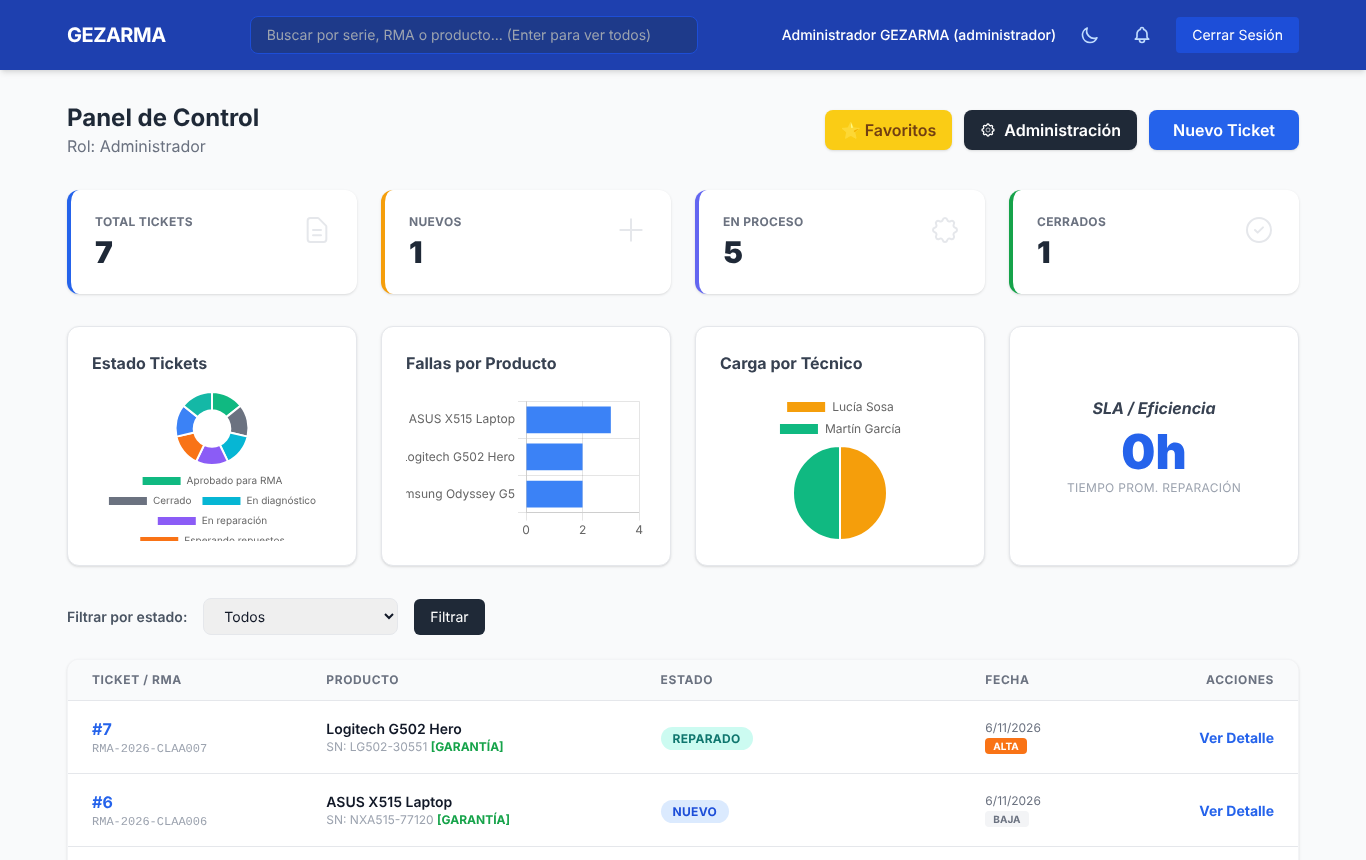
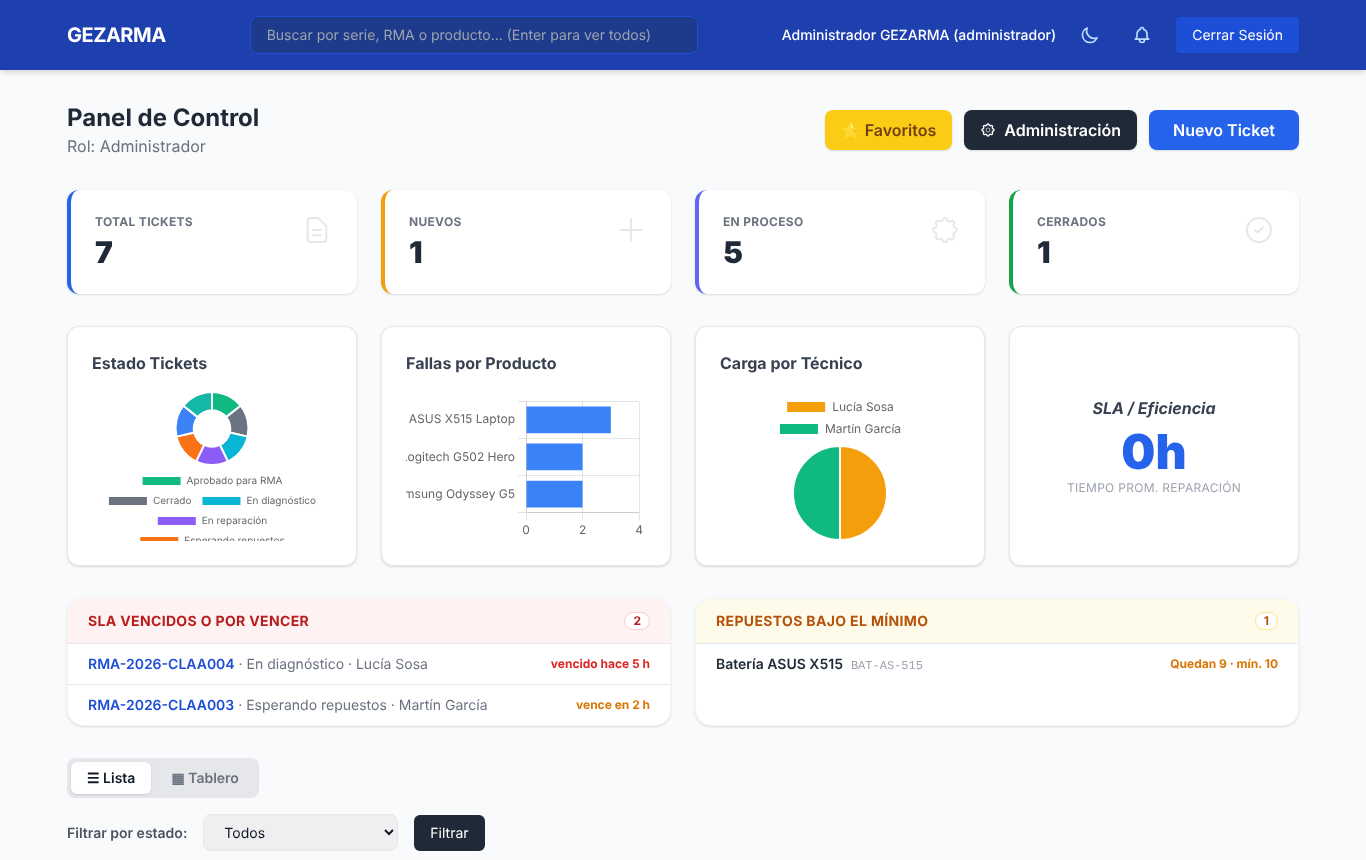
docs: README con las funcionalidades nuevas y capturas
- Funcionalidades, permisos (documentos, etiqueta, tablero, alertas,
  ajustes) y aclaración sobre el seguimiento público.
- Configuración: PUBLIC_URL, SMTP_*, TAREAS_PERIODICAS; sección de Ajustes
  del panel (con ejemplo de Gmail) y de Etiquetas (imprimir a tamaño real).
- Deploy: URL pública y correr un solo proceso de la app.
- Capturas nuevas: alertas en el dashboard, tablero, seguimiento en el
  celular, presupuesto en PDF, etiqueta y ajustes (datos ficticios).

diff --git a/README.md b/README.md
@@ -11,10 +11,15 @@ Backend en **FastAPI** + SQLAlchemy (SQLite por defecto) y frontend en HTML/JS s
 - **Tickets RMA** con número correlativo, estados configurables, prioridad, SLA, técnico asignado, etiquetas, tickets clonados/relacionados y datos de envío.
 - **Diagnóstico** con plantillas, **repuestos usados** con descuento de stock y **adjuntos** (PDF, TXT, JPG, PNG; hasta 10 MB por ticket).
 - **Comentarios** con el cliente y **notas internas** solo para el taller.
-- **Presupuestos** con versiones: el taller ve costo, precio y ganancia; el cliente ve el precio y lo aprueba o rechaza.
-- **Stock de repuestos** con historial de movimientos.
+- **Presupuestos** con versiones: el taller ve costo, precio y ganancia; el cliente ve el precio y lo aprueba o rechaza. Los ítems pueden ser repuestos del catálogo: al aprobarse, se descuentan del stock y se agregan al ticket.
+- **Stock de repuestos** con historial de movimientos, **stock mínimo** y aviso a los administradores cuando un repuesto lo cruza.
+- **Seguimiento público** sin login: el cliente consulta el estado con su N° de RMA y N° de serie (o escaneando el QR de su orden de ingreso).
+- **Documentos**: orden de ingreso, remito de entrega y presupuesto en PDF, y **etiqueta 62 × 29 mm** con QR y código de barras para pegar en el equipo.
+- **Notificaciones por email**: cambios de estado y presupuestos al cliente (con el PDF adjunto), asignaciones al técnico, stock bajo y SLA al taller.
+- **Alertas de SLA**: tickets vencidos o por vencer en el dashboard y aviso automático, una sola vez por ticket.
+- **Tablero Kanban** por estado: arrastrar una tarjeta a otra columna le cambia el estado.
 - **Notificaciones** in-app, **favoritos**, búsqueda global y **historial/auditoría** de cada cambio.
-- **Panel de administración**: usuarios, productos, repuestos, etiquetas, estados, plantillas, finanzas, seguridad del login y **exportación** a CSV/Excel.
+- **Panel de administración**: usuarios, productos, repuestos, etiquetas, estados, plantillas, finanzas, seguridad del login, **ajustes** (documentos, email, SLA, seguimiento) y **exportación** a CSV/Excel.
 - Bloqueo por intentos fallidos de login y cambio de contraseña obligatorio tras un reset.
 
 ## Capturas
@@ -24,9 +29,23 @@ Backend en **FastAPI** + SQLAlchemy (SQLite por defecto) y frontend en HTML/JS s
 | ![Detalle visto por el taller](docs/capturas/03-detalle-taller.png) | ![Detalle visto por el cliente](docs/capturas/04-detalle-cliente.png) |
 | Estado, técnico, diagnóstico, repuestos, nota interna y presupuesto con costo y ganancia. | El mismo ticket para el cliente: sin nota interna y el presupuesto solo con el precio. |
 
-| Administración | Login |
+| Tablero Kanban | Seguimiento público (celular) |
 |---|---|
-| ![Panel de administración](docs/capturas/05-admin.png) | ![Login](docs/capturas/01-login.png) |
+| ![Tablero por estado](docs/capturas/06-tablero.png) | ![Seguimiento de una reparación](docs/capturas/07-seguimiento.png) |
+| Arrastrar una tarjeta a otra columna le cambia el estado. | Con el N° de RMA y el N° de serie, o escaneando el QR de la orden de ingreso. |
+
+| Presupuesto en PDF | Etiqueta 62 × 29 mm |
+|---|---|
+| ![Presupuesto en PDF](docs/capturas/08-presupuesto.png) | ![Etiqueta para el equipo](docs/capturas/09-etiqueta.png) |
+| Precios para el cliente (nunca costos) y QR al seguimiento. | QR que abre el ticket en el sistema y código de barras del N° de RMA. |
+
+| Administración | Ajustes |
+|---|---|
+| ![Panel de administración](docs/capturas/05-admin.png) | ![Ajustes del sistema](docs/capturas/10-ajustes.png) |
+
+| Login | |
+|---|---|
+| ![Login](docs/capturas/01-login.png) | |
 
 *(Datos de demostración ficticios.)*
 
@@ -45,10 +64,14 @@ Backend en **FastAPI** + SQLAlchemy (SQLite por defecto) y frontend en HTML/JS s
 | Crear, editar y enviar presupuestos | — | ✅ | ✅ |
 | Ver costo interno y ganancia | — | ✅ | ✅ |
 | Aprobar / rechazar presupuesto | los suyos | ✅ | ✅ |
-| Dashboard con estadísticas, favoritos | — | ✅ | ✅ |
+| Dashboard con estadísticas, alertas de SLA y stock, tablero Kanban, favoritos | — | ✅ | ✅ |
+| Documentos: orden de ingreso, remito, presupuesto | los suyos | ✅ | ✅ |
+| Etiqueta del equipo | — | ✅ | ✅ |
 | Exportar tickets, productos y repuestos | — | ✅ | ✅ |
 | Administrar usuarios, productos, repuestos, stock, etiquetas, estados y plantillas | — | — | ✅ |
-| Finanzas, seguridad del login, exportar usuarios | — | — | ✅ |
+| Finanzas, seguridad del login, ajustes, exportar usuarios | — | — | ✅ |
+
+El **seguimiento público** (`/seguimiento`) no requiere usuario: lo puede consultar cualquiera que tenga el N° de RMA **y** el N° de serie del equipo, y muestra solo el estado, la línea de tiempo y los datos de envío.
 
 El registro público siempre crea usuarios **cliente**. Los técnicos y administradores los crea un administrador desde *Administración → Usuarios → Nuevo usuario*.
 
@@ -103,10 +126,31 @@ Todo se configura con variables de entorno o con un archivo `.env` en la raíz (
 | `TIMEZONE` | `America/Argentina/Buenos_Aires` | Zona horaria del negocio (nombre IANA). Las fechas se guardan en UTC y cada navegador las muestra en su hora local; esta zona se usa para las exportaciones a CSV/Excel. |
 | `DATABASE_URL` | `sqlite:///./rma_system.db` | Base de datos (cualquier URL de SQLAlchemy). En Docker está fija a `/data`. |
 | `UPLOAD_DIR` | `uploads` | Carpeta de adjuntos. En Docker está fija a `/data/uploads`. |
+| `PUBLIC_URL` | (vacía) | Dirección pública del sistema, para los QR y los links de los mails (ej. `https://rma.tuempresa.com`). Vacía = la dirección con la que se accede. También se puede cargar en *Ajustes*. |
+| `SMTP_HOST`, `SMTP_PORT`, `SMTP_SECURITY`, `SMTP_USER`, `SMTP_PASSWORD`, `SMTP_FROM` | (vacías), `587`, `starttls` | Servidor de correo, si en *Ajustes* elegís tomar la configuración SMTP del `.env` (la otra opción es cargarla en el panel). |
+| `TAREAS_PERIODICAS` | `1` | Revisión automática de SLA. Poné `0` si corrés más de un proceso de la app (así no avisa dos veces). |
 | `PORT` | `8000` | Puerto publicado por Docker Compose. |
 | `FORWARDED_ALLOW_IPS` | `127.0.0.1` | IP(s) del proxy inverso en el que se confía para conocer la IP real del cliente (ver *Deploy*). |
 
 Al arrancar, la app avisa en el log si la `SECRET_KEY` o `CORS_ORIGINS` quedaron con valores inseguros.
+
+### Ajustes desde el panel
+
+En *Administración → Ajustes* se configura lo que no hace falta tocar en el servidor:
+
+- **General**: nombre y datos de contacto que salen en documentos y mails, URL pública y si el seguimiento público está habilitado.
+- **Documentos**: generarlos como PDF en el servidor o abrirlos para imprimir desde el navegador. Los PDF adjuntos a los mails siempre los genera el servidor.
+- **Email**: activar las notificaciones, elegir si el SMTP se toma del `.env` o del panel (en el panel la contraseña se guarda cifrada con la `SECRET_KEY`; si la cambiás, hay que volver a cargarla), qué eventos se notifican, y un botón para mandar un mail de prueba que muestra el error real si algo falla.
+- **SLA**: con cuántas horas de anticipación avisar (por defecto 4; tiene que ser menor que el SLA más corto, 24 h) y cada cuántos minutos revisar.
+
+Ejemplo con Gmail: servidor `smtp.gmail.com`, puerto `587`, STARTTLS, y como contraseña una *contraseña de aplicación* de la cuenta (Gmail no acepta la contraseña normal por SMTP).
+
+### Etiquetas
+
+La etiqueta está pensada para impresoras de etiquetas de **62 × 29 mm** (Brother QL y similares). Al imprimir, elegí ese tamaño de papel y **escala 100 % / tamaño real**: el código de barras se genera con el ancho exacto de barra para 300 dpi y deja de leerse si se achica.
+
+- El **QR** abre el ticket en el sistema (después de iniciar sesión, si hace falta).
+- El **código de barras** tiene el N° de RMA: con un lector USB, escanearlo en el buscador encuentra el ticket.
 
 ## Deploy
 
@@ -124,6 +168,8 @@ Checklist:
 - `CORS_ORIGINS` vacía.
 - `FORWARDED_ALLOW_IPS` con la IP desde la que el proxy llega a la app. Así el bloqueo por intentos fallidos de login usa la IP real de cada cliente y no la del proxy (que bloquearía a todos a la vez). Con Docker y el proxy en el mismo host, suele ser el gateway de la red de Docker: `docker network inspect gezarma_default` → `Gateway`.
 - No publicar el puerto 8000 directo a internet si hay proxy: en `docker-compose.yml` se puede usar `"127.0.0.1:8000:8000"`.
+- `PUBLIC_URL` (o *Ajustes → URL pública*) con la dirección real, para que los QR y los links de los mails funcionen desde afuera.
+- Correr **un solo proceso** de la app (sin `--workers` > 1): la revisión de SLA y el límite de intentos del seguimiento público viven en el proceso. Si necesitás más de uno, dejá `TAREAS_PERIODICAS=1` solo en uno.
 
 ### Backups
 
@@ -163,7 +209,7 @@ pip install -r requirements-dev.txt
 pytest
 ```
 
-Usan una base y una carpeta de adjuntos temporales: no tocan los datos locales. Cubren permisos por rol, adjuntos, presupuestos, exportación, contraseñas y migraciones.
+Usan una base y una carpeta de adjuntos temporales: no tocan los datos locales. Cubren permisos por rol, adjuntos, presupuestos, stock, documentos, seguimiento público, email (contra un servidor SMTP de prueba), SLA, fechas, contraseñas y migraciones.
 
 ### Estructura
 
@@ -177,10 +223,12 @@ backend/
     schemas.py         esquemas Pydantic (entrada/salida de la API)
     auth.py            contraseñas (bcrypt), JWT y permisos por rol
     routers/           endpoints por área (tickets, presupuestos, stock, …)
-    services/          lógica de tickets (número RMA, SLA, notificaciones)
+    ajustes.py         ajustes editables desde el panel (secretos cifrados)
+    services/          lógica: tickets, stock, documentos, email, SLA, avisos
+    templates/         plantillas de documentos (PDF/impresión) y de mails
   migrations/          migraciones de Alembic
 frontend/
-  index.html, partials/, js/
+  index.html, seguimiento.html (página pública), partials/, js/
 tests/                 tests de pytest
 docs/capturas/         capturas de este README
 ```
